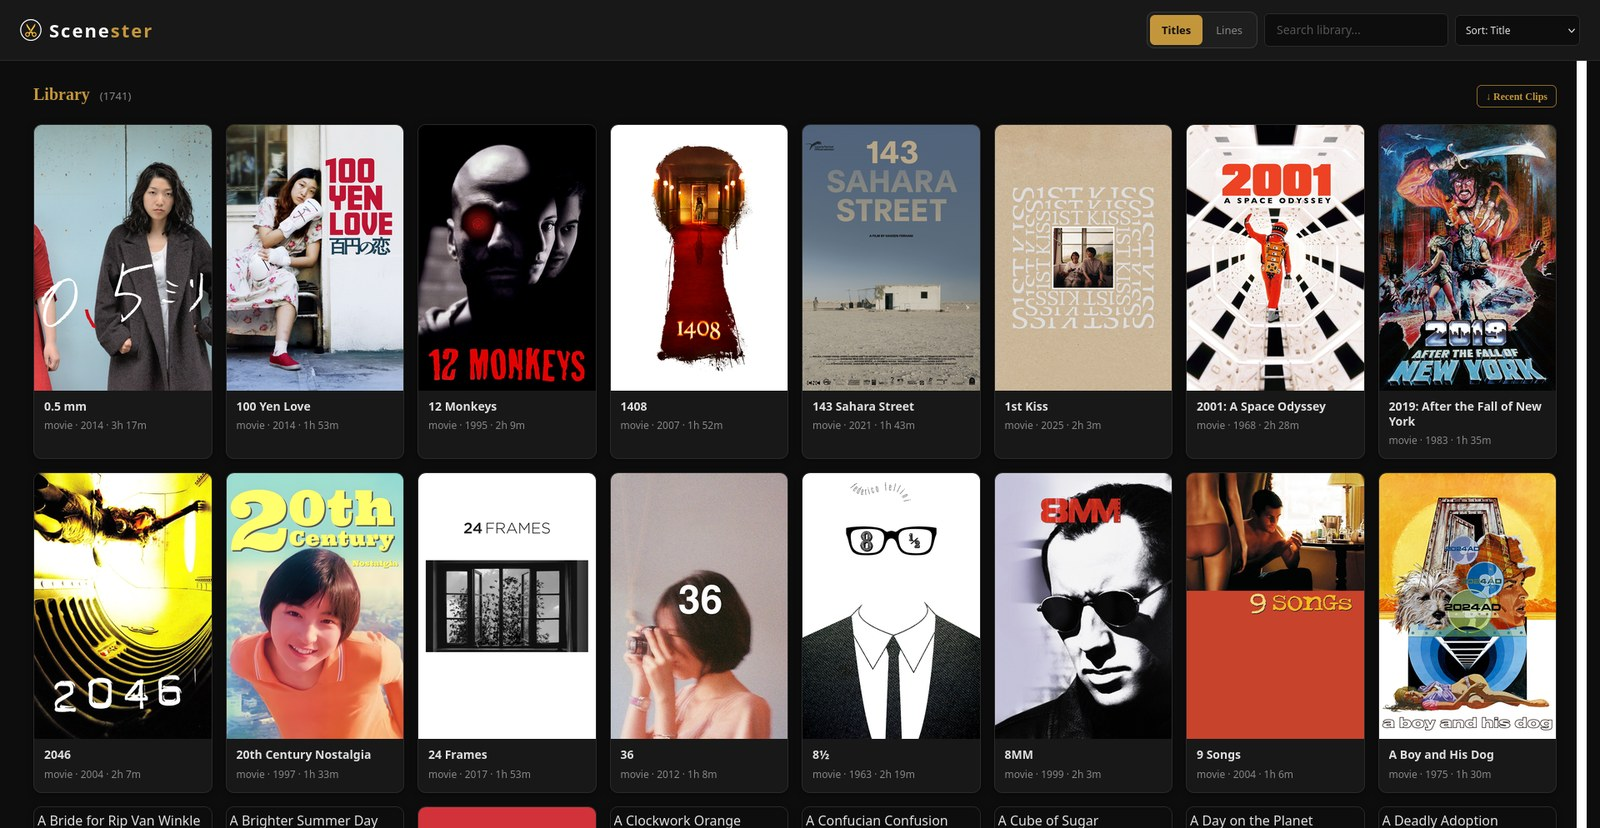
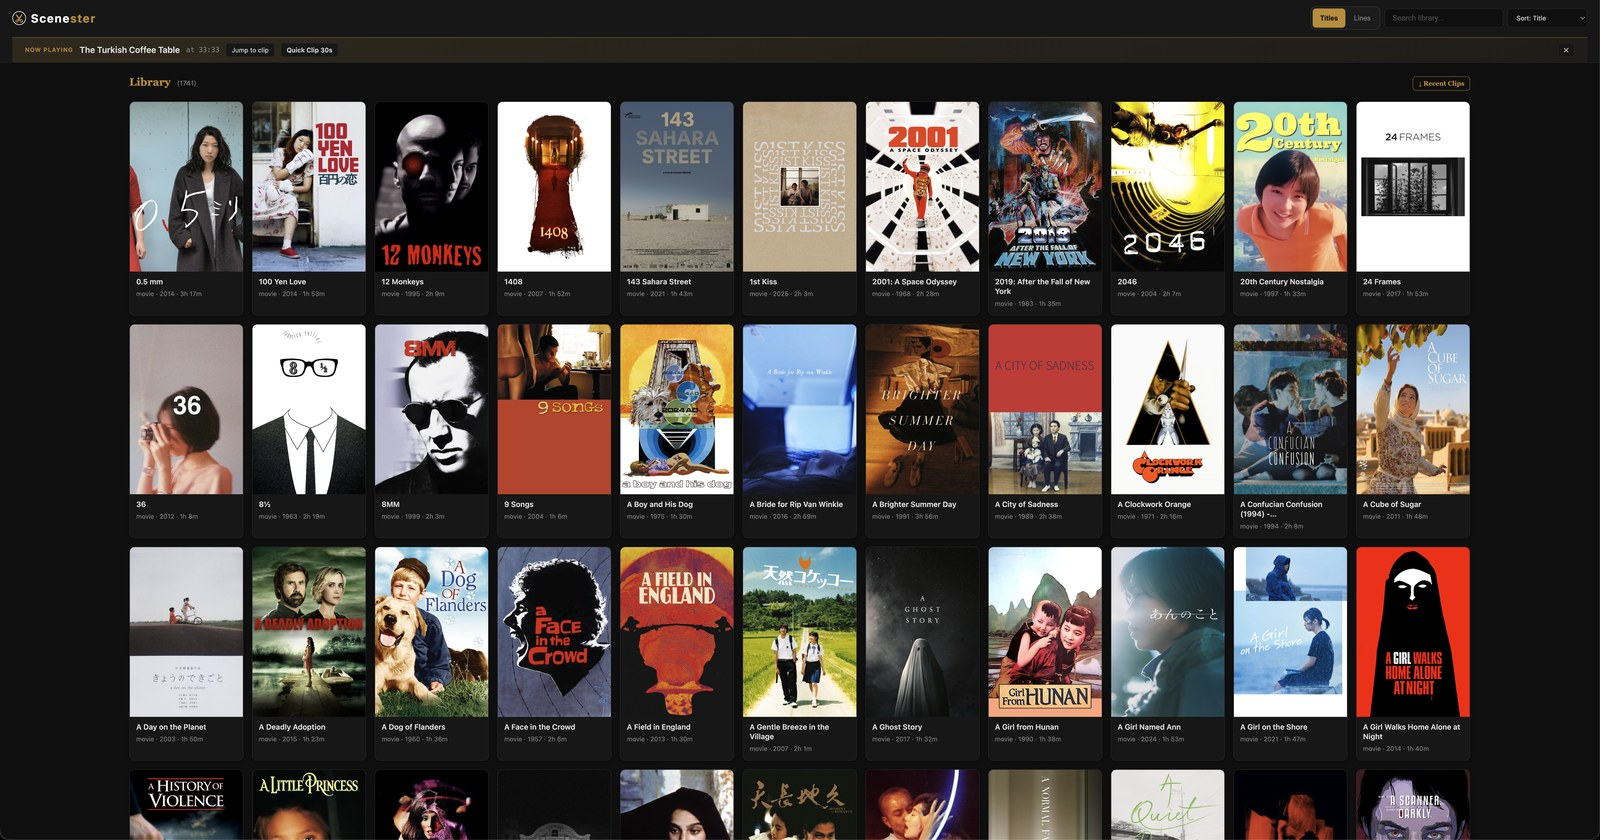
docs: README overhaul — dialogue-driven editing front and center, compose-first setup, reshot screenshots
- Add 'Why Scenester?' section selling line-selection editing (unique vs other clippers)
- Mention library view search & sort in Features
- Setup restructured compose-first; docker run demoted to collapsed details block
- Remove awkward film-strip wording ('the frame nearest the playhead is ringed...')
- Reshot screenshots: now-playing banner, multi-line selection, quote search (885 matches),
  fine-tune + film strip, in-movie line search, fresh mobile library/editor

diff --git a/README.md b/README.md
@@ -6,16 +6,51 @@ Scenester clips movies from your Plex library. Browse, scrub a live video previe
 mark a range with two buttons, and download frame-accurate 1080p clips.
 
 <p align="center">
-  <img src="screenshots/library-desktop.jpg" alt="Scenester movie library on desktop" width="62%">
-  <img src="screenshots/editor-desktop.jpg" alt="Clip editor on desktop" width="36%">
+  <img src="screenshots/library-desktop.jpg" alt="Scenester movie library on desktop, with the now-playing banner" width="62%">
+  <img src="screenshots/editor-desktop-clean.jpg" alt="Clip editor on desktop with a live video preview" width="36%">
 </p>
 <p align="center">
-  <img src="screenshots/library-mobile.jpg" alt="Scenester movie library on mobile" width="180">
-  <img src="screenshots/editor-mobile.jpg" alt="Clip editor on mobile" width="180">
+  <img src="screenshots/editor-desktop-multi-lines.jpg" alt="Selecting a run of dialogue lines marks the matching clip range" width="49%">
+  <img src="screenshots/library-desktop-searchline-hell.jpg" alt="Searching every movie's dialogue by quote — 885 matches for &quot;what the hell&quot;" width="49%">
 </p>
+<p align="center">
+  <img src="screenshots/editor-desktop-finetune-filmstrip.jpg" alt="Fine-tune nudges and the opt-in film strip" width="62%">
+  <img src="screenshots/editor-desktop-line-search.jpg" alt="Searching lines within a movie's transcript" width="36%">
+</p>
+<p align="center">
+  <img src="screenshots/library-mobile-manual.jpg" alt="Movie library on mobile" width="180">
+  <img src="screenshots/editor-mobile-manual.jpg" alt="Clip editor on mobile" width="180">
+</p>
+
+## Why Scenester?
+
+Most clip editors make you drag slider handles and pray. Scenester is built
+around a different idea: **edit by selecting lines of dialogue**.
+
+Because Scenester already reads your movies' subtitle files, the clip range
+isn't an abstract timeline — it *is* the script. Every line under your playhead
+is listed with its timestamp:
+
+- **Tap a line to select it; shift-tap to extend** — the clip's start and end
+  snap to the dialogue you picked. Selecting "the argument scene" is just
+  selecting those lines.
+- **The selection follows your range in real time**: mark Start/End anywhere
+  (buttons, keyboard, film strip) and the covered lines light up instantly;
+  select lines and the range moves to match. Two views of one edit, always in
+  sync.
+- **Search quotes across your entire library** — flip the search box to
+  **Lines** mode and type any phrase ("we're not in Kansas anymore") to find
+  which movie says it, at what timestamp, then jump straight into that moment
+  ready to clip it.
+- **Double-tap a line to audition it** — the exact span loops instantly so you
+  can hear the take before committing.
+
+No other Plex clipper works this way: you mark moments by their words, not by
+eyeballing waveform handles.
 
 ## Features
 
+- **Dialogue-driven editing** — see above; it's the headline feature.
 - **Video-first preview** — the player spans the full editor width on
   desktop (up to a 2560px canvas; native aspect ratio, no letterboxing) and
   streams directly with byte-range seeking; the native `<video>` controls
@@ -27,11 +62,13 @@ mark a range with two buttons, and download frame-accurate 1080p clips.
   Unset buttons free an edge to ride the playhead again.
 - **Frame-precise nudging** — explicit Start/End rows of −30s −10s −5s −1f +1f
   +5s +10s +30s (1 frame ≈ 0.04s). Fat-thumb accessible.
+- **Library view with search & sort** — poster grid for the whole library;
+  filter by title as you type and sort by title, year (newest/oldest),
+  duration, date added, or shuffle.
 - **Duration presets** — Free (default) plus 5s / 10s / 15s / 45s / 60s.
 - **Looped clip preview** — 🔁 Loop auditions the selected range before download.
 - **Opt-in film strip** — a navigation-only thumbnail strip (🗂 toggle in the
-  player's timeline bar): tap a frame to move the playhead; the frame nearest
-  the playhead is ringed. It never marks clip edges.
+  player's timeline bar): tap a frame to move the playhead.
 - **MP4 or GIF output** — pick the format in the editor; GIFs go through a
   palette-optimized ffmpeg pipeline for small, crisp loops.
 - **Optional caption burning** — .srt files found alongside the media (e.g.
@@ -50,21 +87,13 @@ mark a range with two buttons, and download frame-accurate 1080p clips.
 
 ## Setup
 
-*New to Docker? You don't need to understand it. Scenester ships as a
-ready-made package — "pulling" just means downloading it, and the commands
-below do everything else. You need three things: Docker installed, a Plex
-server, and a folder on the same machine containing your media files.*
+*New to Docker? You don't need to understand it. Add this service to your
+existing Docker Compose file and run `docker compose up -d` — that's the whole
+install.*
 
-### 1. Get the app (one time)
+### 1. Configure
 
-```bash
-docker pull ghcr.io/vacuumboots/scenester:latest
-```
-
-That's the whole app, downloaded. (Using Docker Compose in step 3? Skip
-this — Compose downloads it automatically.)
-
-### 2. Configure
+Next to your `compose.yaml`, create a `.env` file:
 
 ```bash
 cp .env.example .env
@@ -77,14 +106,13 @@ PLEX_URL=http://host.docker.internal:32400
 # PLEX_TOKEN=...   (optional — the in-app "Connect to Plex" login is easier)
 ```
 
-### 3. Run (recommended: Docker Compose)
+### 2. Add it to your compose file
 
-Save this as `compose.yaml` next to your `.env`. Change the three
-`/path/to/...` lines to your real folders — the first one must be the
-folder your Plex library lives in:
+Paste this service into your existing `compose.yaml`. Change the three
+`/path/to/...` lines to your real folders — the first one must be the folder
+your Plex library lives in:
 
 ```yaml
-services:
   scenester:
     image: ghcr.io/vacuumboots/scenester:latest
     container_name: scenester
@@ -102,16 +130,16 @@ services:
       - /path/to/data:/data             # app settings + login (survives restarts)
 ```
 
+Then:
+
 ```bash
 docker compose up -d
 ```
 
-Compose downloads the app if needed and starts it. That's it.
+Compose pulls the image automatically and starts it. That's it.
 
-### 4. No Docker Compose? One command instead
-
-Prefer no config file? This single command does the same thing — the three
-`-v` lines are your three folders from above:
+<details>
+<summary>Not using Compose? One command instead</summary>
 
 ```bash
 docker run -d --name scenester \
@@ -125,8 +153,9 @@ docker run -d --name scenester \
   --restart unless-stopped \
   ghcr.io/vacuumboots/scenester:latest
 ```
+</details>
 
-### 5. Open it
+### 3. Open it
 
 Browse to `http://localhost:8096` (or the IP of the machine running
 Docker) and sign in with your Plex account.
@@ -148,10 +177,12 @@ pulling — see [Development](#development).*
 ## Usage
 
 1. Open the app — connect with Plex OAuth (or a pre-set token).
-2. Browse or search your movie library.
+2. Browse or search your movie library (or switch the search to **Lines**
+   mode to find a scene by quoting it).
 3. Click a title to open the detail view.
-4. Play or scrub to your in-point and click **Set Start**, then to your
-   out-point and click **Set End** (or pick a duration preset).
+4. Mark your clip: tap dialogue lines, or play/scrub to your in-point and
+   click **Set Start**, then to your out-point and click **Set End** (or pick
+   a duration preset).
 5. Fine-tune with the nudge rows, then click **⬇ Set Clip**.
 
 ### Keyboard shortcuts
@@ -189,7 +220,8 @@ your network layer), not in the app itself.
     drops from ~111s to ~11s on a Haswell i5.
   - Subtitle burning parses `.srt` files (UTF-8/Latin-1), chunks them into
     word groups for a "dynamic captions" look, and renders via ffmpeg's
-    `subtitles=` filter with ASS styling.
+    `subtitles=` filter with ASS styling. The same parser powers dialogue-line
+    selection and cross-library quote search.
   - Plex integration through the official HTTP API: library, metadata,
     sessions (the now-playing banner), and OAuth PIN login.
 - **Frontend** — vanilla HTML/CSS/JS, no framework, no build step
@@ -211,14 +243,13 @@ your network layer), not in the app itself.
 
 ## Development
 
-Want to build the Docker image from source instead of pulling it?
+Want to build the Docker image from source instead of pulling it? Swap the
+`image:` line in your compose service for `build: .` pointing at a checkout
+of this repo, or:
 
 ```bash
 docker build -t scenester .
 ```
-
-Then run it with the compose file from [Setup](#setup) (swap the `image:`
-line for `build: .`), or the `docker run` command.
 
 To run the backend locally without Docker (the frontend needs no build step):
 
